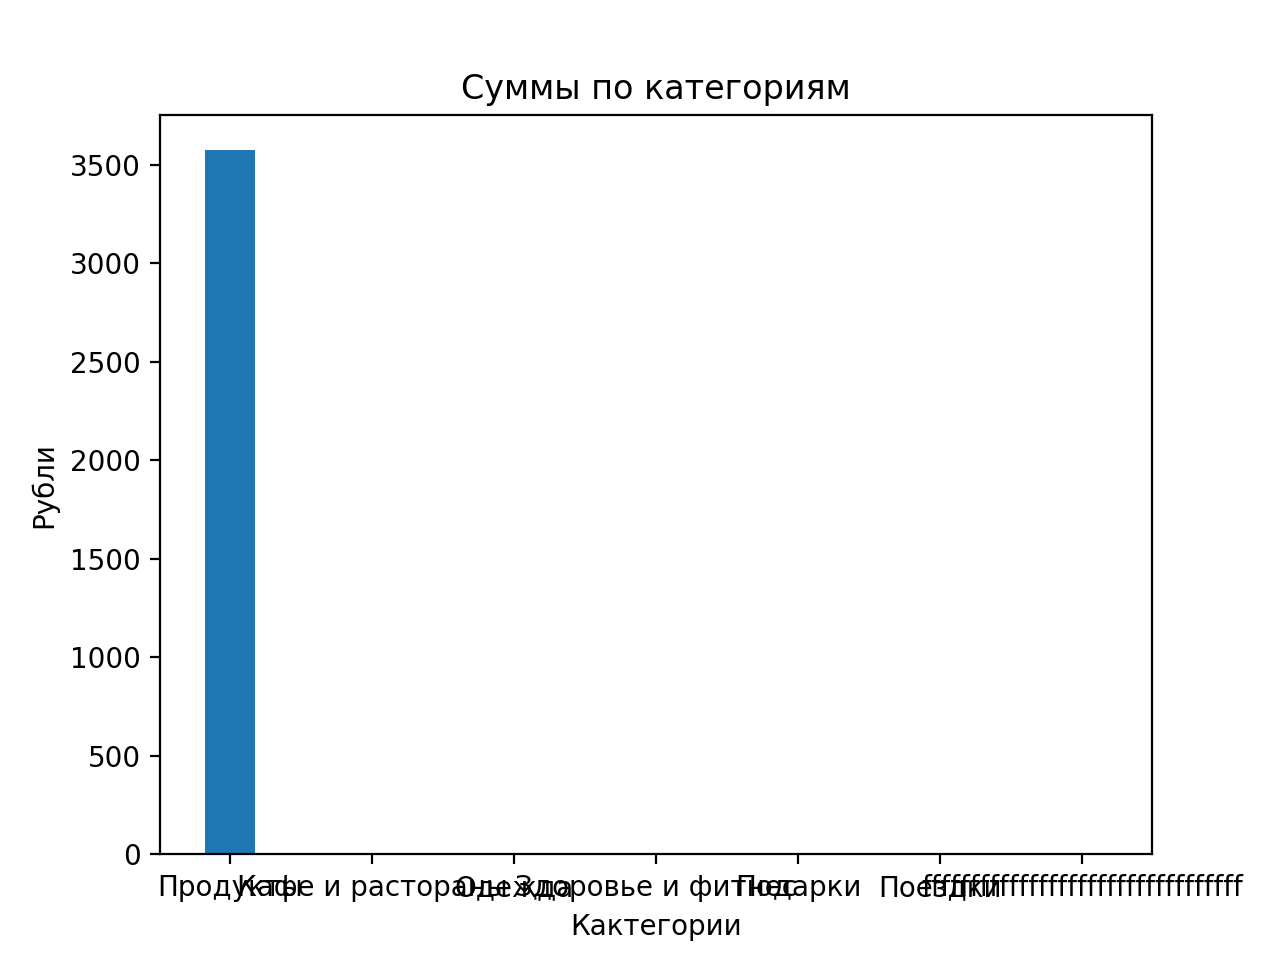
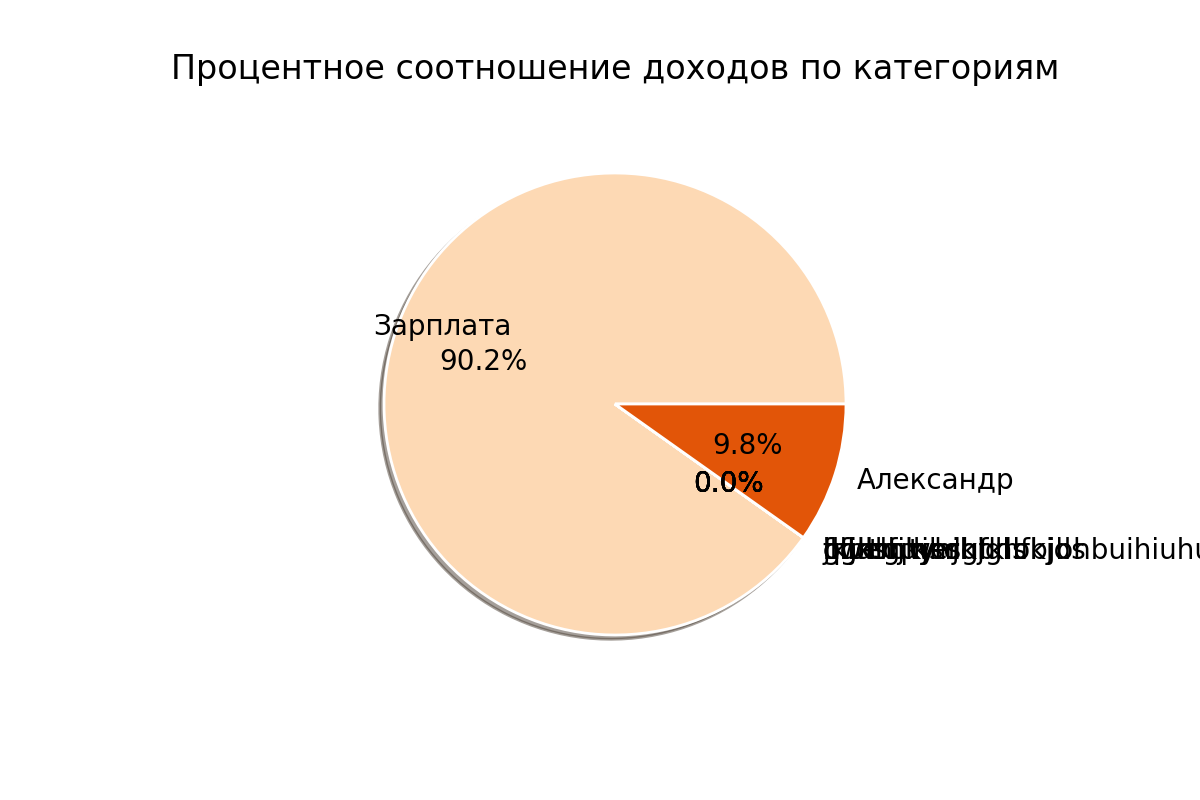
Почти допилил

diff --git a/templates/index.html b/templates/index.html
@@ -11,7 +11,7 @@
                     <use xlink:href="#stroked-home"></use>
                 </svg>
             </a></li>
-            <li class="active">Icons</li>
+            <li class="active">{{ title }}</li>
         </ol>
     </div><!--/.row-->
 
@@ -103,6 +103,7 @@
                             <th data-field="name_bank_account" data-sortable="true">Название счёта</th>
                             <th data-field="date" data-sortable="false">Дата</th>
                             <th data-field="sum" data-sortable="true">Сумма</th>
+                            <th data-field="comment" data-sortable="true">Комментарий</th>
                         </tr>
                         </thead>
                     </table>
@@ -394,7 +395,7 @@
     </div><!--/.row-->
 </div>    <!--/.main-->
 
-<script src="static/scripts/bootstrap-table.js"></script>
+<script src="{{ url_for('static',filename='scripts/bootstrap-table.js') }}"></script>
 <script>
 		$('#calendar').datepicker({
 		});

diff --git a/templates/bank_accounts.html b/templates/bank_accounts.html
@@ -28,6 +28,7 @@
                     <tr>
                         <th data-field="name" data-sortable="true">Название</th>
                         <th data-field="sum" data-sortable="true">Сумма</th>
+                        <th data-field="description" data-sortable="true">Описание</th>
                     </tr>
                     </thead>
                 </table>
@@ -35,7 +36,7 @@
         </div>
     </div>
 </div>
-<script src="static/scripts/bootstrap-table.js"></script>
+<script src="{{ url_for('static',filename='scripts/bootstrap-table.js') }}"></script>
 <script>
 		!function ($) {
 			$(document).on("click","ul.nav li.parent > a > span.icon", function(){

diff --git a/templates/categories.html b/templates/categories.html
@@ -29,6 +29,7 @@
                     <tr>
                         <th data-field="name" data-sortable="true">Название</th>
                         <th data-field="of" data-sortable="true">Тип</th>
+                        <th data-field="description" data-sortable="true">Описание</th>
                     </tr>
                     </thead>
                 </table>
@@ -36,7 +37,7 @@
         </div>
     </div>
 </div>
-<script src="static/scripts/bootstrap-table.js"></script>
+<script src="{{ url_for('static',filename='scripts/bootstrap-table.js') }}"></script>
 <script>
 		!function ($) {
 			$(document).on("click","ul.nav li.parent > a > span.icon", function(){

diff --git a/templates/analytics.html b/templates/analytics.html
@@ -60,7 +60,7 @@
                             <div class="col-xs-12 col-md-6 col-lg-3" style="text-align: center;">{{ form.submit4(type="submit", value="forth", class="btn btn-primary my", style='background-image: url("static/images/lines.png")' ) }}</div>
                         </div>
                         <div class="form-group">
-                            <img src="{{ image }}">
+                            <img src="{{ image }}" style="width: 100%;">
 
                         </div>
                     </form>

diff --git a/grafs.py b/grafs.py
@@ -1,13 +1,13 @@
 import matplotlib.pyplot as plt
 import matplotlib
-#import datetime as dt
+# import datetime as dt
 from datetime import date, timedelta
 import numpy as np
 from main import *
 from io import BytesIO
 
 
-def f(type: bool, time_mode: int, args):
+def charts_by_categories(type: bool, time_mode: int, args):
     if type:
         categories = get_categories()
     else:
@@ -20,17 +20,17 @@ def f(type: bool, time_mode: int, args):
         end = list(args[time_mode:]) + [1] * (3 - time_mode)
         date_start = date(*start)
         date_stop = date(*end)
-        #date_start = dt.date(*(list(args[:time_mode]) + [1] * (3 - time_mode)))
-        #date_stop = dt.date(*(list(args[time_mode:]) + [1] * (3 - time_mode)))
-        for id_purchase, sum, datee in get_purchase_deposit(type, id_category):
-            if date_start <= date(*map(int, datee.split('.')[::-1])) < date_stop:
+        # date_start = dt.date(*(list(args[:time_mode]) + [1] * (3 - time_mode)))
+        # date_stop = dt.date(*(list(args[time_mode:]) + [1] * (3 - time_mode)))
+        for id_purchase, sum, date_get in get_purchase_deposit(type, id_category):
+            if date_start <= date(*map(int, date_get.split('.')[::-1])) < date_stop:
                 cursum += sum
         labels.append(name)
         sums.append(cursum)
     return labels, sums
 
 
-def dn(time_mode, date_start):
+def plus_one(time_mode, date_start):
     if time_mode == 1:
         date_start = date(date_start.year + 1, date_start.month, date_start.day)
     elif time_mode == 2:
@@ -43,7 +43,7 @@ def dn(time_mode, date_start):
     return date_start
 
 
-def f2(type: bool, time_mode: int, args):
+def charts_by_date(type: bool, time_mode: int, args):
     labels = []
     cs = {}
     if type:
@@ -54,66 +54,66 @@ def f2(type: bool, time_mode: int, args):
         cs[name] = []
 
     date_start = date(*(list(args[:len(args) // 2]) + [1] * (3 - time_mode)))
-    date_next = dn(time_mode, date_start)
+    date_next = plus_one(time_mode, date_start)
     date_stop = date(*(list(args[len(args) // 2:]) + [1] * (3 - time_mode)))
     while date_start < date_stop:
         labels.append('.'.join(date_start.strftime("%d.%m.%Y").split('.')[3 - time_mode:]))
         arggs = [date_start.year, date_start.month, date_start.day][:time_mode] + \
                 [date_next.year, date_next.month, date_next.day][:time_mode]
-        for label, sum in zip(*f(type, time_mode, arggs)):
+        for label, sum in zip(*charts_by_categories(type, time_mode, arggs)):
             cs[label].append(sum)
         date_start = date_next
-        date_next = dn(time_mode, date_start)
+        date_next = plus_one(time_mode, date_start)
     return cs, labels
 
 
-def graph(type: bool, mode: str, one: str, two: str):  # year_start, month_start, day_start, year_stop, month_stop, day_stop
+def charts(type: bool, mode: str, one: str, two: str):  # year_start, month_start, day_start, year_stop, month_stop, day_stop
     time_mode = one.count(".") + 1
     args = [int(i) for i in one.split('.')[::-1] + two.split('.')[::-1]]
-    fig, ax = plt.subplots(figsize=(5, 3))
+    fig, ax = plt.subplots(figsize=(6, 4))
     if mode == "plot":
-        cs, labels = f2(type, time_mode, args)
+        cs, labels = charts_by_date(type, time_mode, args)
         for category, sums in cs.items():
             ax.plot(np.arange(len(sums)), sums, label=category)
             plt.xticks(np.arange(len(sums)), labels, rotation='horizontal')
 
         ax.set_xlabel('Дата')
         ax.set_ylabel('Рубли')
-        ax.set_title("График расходов за выбранный период")
+        ax.set_title(f'График {"расходов" if type else "доходов"} за выбранный период')
         ax.legend()
     elif mode == 'pie':
-        labels, sums = f(type, time_mode, args)
+        labels, sums = charts_by_categories(type, time_mode, args)
         colors = plt.get_cmap('Oranges')(np.linspace(0.2, 0.7, len(labels)))
-        ax.pie(sums, colors=colors, radius=3, center=(4, 4), labels=labels,
-               wedgeprops={"linewidth": 1, "edgecolor": "white"}, frame=True, autopct='%1.1f%%', shadow=True)
-        ax.set_title('Процентное соотношение расходов по категориям')
+        ax.pie(sums, colors=colors, radius=3, center=(4, 4), labels=labels, frame=True,
+               wedgeprops={"linewidth": 1, "edgecolor": "white"}, autopct='%1.1f%%', shadow=True)
+        ax.set_title(f'Процентное соотношение {"расходов" if type else "доходов"} по категориям')
         ax.set(xlim=(0, 8), xticks=range(1, 1), ylim=(0, 8), yticks=range(1, 1))
         ax.axis('off')
     elif mode == 'bar':
-        labels, sums = f(type, time_mode, args)
+        labels, sums = charts_by_categories(type, time_mode, args)
         x = np.arange(len(labels))
         width = 0.35
         fig, ax = plt.subplots()
-        rects2 = ax.bar(x, sums, width)
+        ax.bar(x, sums, width)
         ax.set_xlabel('Кактегории')
         ax.set_ylabel('Рубли')
         plt.xticks(x, labels, rotation='horizontal')
-        ax.set_title('Cуммы по категориям')
+        ax.set_title(f'Cуммы по категориям {"расходов" if type else "доходов"}')
         # ax.bar_label(rects2, padding=3)
     elif mode == 'bar2':
-        cs, labels = f2(type, time_mode, args)
+        cs, labels = charts_by_date(type, time_mode, args)
         ind = np.arange(len(tuple(cs.values())[0]))
         width = 0.35
         last = None
         for category, sums in cs.items():
-            p = ax.bar(ind, sums, width, bottom=last, label=category)
+            ax.bar(ind, sums, width, bottom=last, label=category)
             # ax.bar_label(p, label_type='center')
             last = sums
 
         ax.axhline(0, color='grey', linewidth=0.8)
         ax.set_ylabel('Рубли')
         ax.set_xlabel('Дата')
-        ax.set_title('Расходы за выбранный период')
+        ax.set_title(f'{"Расходы" if type else "Доходы"} за выбранный период')
         # ax.set_xticks(ind, labels=labels)
         plt.xticks(ind, labels, rotation='horizontal')
         ax.legend()

diff --git a/index.py b/index.py
@@ -3,7 +3,7 @@ from wtforms import StringField, PasswordField, BooleanField, SubmitField, Email
 from wtforms.validators import DataRequired
 from flask import Flask, url_for, render_template, redirect, make_response
 from csv_xlsx import *
-from grafs import graph
+from grafs import charts
 
 from main import *
 import json
@@ -11,7 +11,7 @@ import json
 # from input_user_data_form import UserDataForm
 # @app.route('/<style>.css')
 # def css(style):
-#     return open(f'static/styles/{style}.css').read()
+#     return open('.' + url_for('static', filename='styles/{style}.css')).read()
 
 
 # @app.route('/<image>.png')
@@ -114,14 +114,15 @@ def index():
     data = []
     for i in get_get():
         d = {
-            "number": i[4],
+            "number": i[5],
+            "comment": i[4],
             "name_category": i[0],
             "name_bank_account": i[1],
             "sum": i[2],
             "date": i[3]
         }
         data.append(d)
-    with open('static/tables/data.json', 'w+') as file:
+    with open('.' + url_for('static', filename='tables/data.json'), 'w+') as file:
         json.dump(data, file, sort_keys=True, indent=4)
 
     summa = get_sum()
@@ -235,10 +236,11 @@ def bank_accounts():
     for i in get_bank_accounts():
         d = {
             "name": i[1],
-            "sum": str(i[2])
+            "sum": str(i[2]),
+            "description": i[3]
         }
         data.append(d)
-    with open('static/tables/data1.json', 'w+') as file:
+    with open('.' + url_for('static', filename='tables/data1.json'), 'w+') as file:
         json.dump(data, file, indent=4)
 
     params = generate_params("Счета")
@@ -255,16 +257,18 @@ def categories():
     for i in get_categories():
         d = {
             "name": i[1],
-            "of": "Расходов"
+            "of": "Расходов",
+            "description": i[2]
         }
         data.append(d)
     for i in get_deposit_categories():
         d = {
             "name": i[1],
-            "of": "Доходов"
+            "of": "Доходов",
+            "description": i[2]
         }
         data.append(d)
-    with open('static/tables/data2.json', 'w+') as file:
+    with open('.' + url_for('static', filename='tables/data2.json'), 'w+') as file:
         json.dump(data, file, indent=4)
 
     params = generate_params("Категории")
@@ -381,16 +385,16 @@ def analytics():
     form = Analytics()
     if form.validate_on_submit():
         if form.data['submit1']:
-            mode = "plot"
+            mode = 'bar2'
         elif form.data['submit2']:
             mode = 'pie'
         elif form.data['submit3']:
             mode = 'bar'
         else:
-            mode = 'bar2'
+            mode = "plot"
         type = False if form.mode.data == "Доходам" else True
-        graph(type, mode, form.date_start.data, form.date_end.data)
-        image = "static/images/saved_figure.png"
+        charts(type, mode, form.date_start.data, form.date_end.data)
+        image = url_for('static', filename='images/saved_figure.png')
         params = generate_params("Аналитика", form=form, image=image)
         return render_template('analytics.html', **params)
     params = generate_params("Аналитика", form=form)
@@ -400,13 +404,13 @@ def analytics():
 @app.route('/export_xlsx')
 def export_xlsx_():
     export_xlsx()
-    return redirect('/static/export/export_data_FinUp.xlsx')
+    return redirect(url_for('static', filename='export/export_data_FinUp.xlsx'))
 
 
 @app.route('/export_csv')
 def export_csv_():
     export_csv()
-    return redirect('/static/export/export_data_FinUp.zip')
+    return redirect(url_for('static', filename='export/export_data_FinUp.zip'))
 
 
 @app.errorhandler(404)

diff --git a/main.py b/main.py
@@ -415,9 +415,9 @@ def get_bank_acc_name(id_bank_account):
 def get_get():
     ans = []
     for i in get_deposits():
-        ans.append([get_deposit_category_name(i[1]), get_bank_acc_name(i[2]), i[3], i[4]])
+        ans.append([get_deposit_category_name(i[1]), get_bank_acc_name(i[2]), i[3], i[4], i[5]])
     for i in get_purchase():
-        ans.append([get_category_name(i[1]), get_bank_acc_name(i[2]), i[3], i[4]])
+        ans.append([get_category_name(i[1]), get_bank_acc_name(i[2]), i[3], i[4], i[5]])
     ans = sorted(ans, key=lambda x: [int(i) for i in x[3].split('.')[::-1]], reverse=True)
     for i in range(len(ans)):
         ans[i].append(i)
